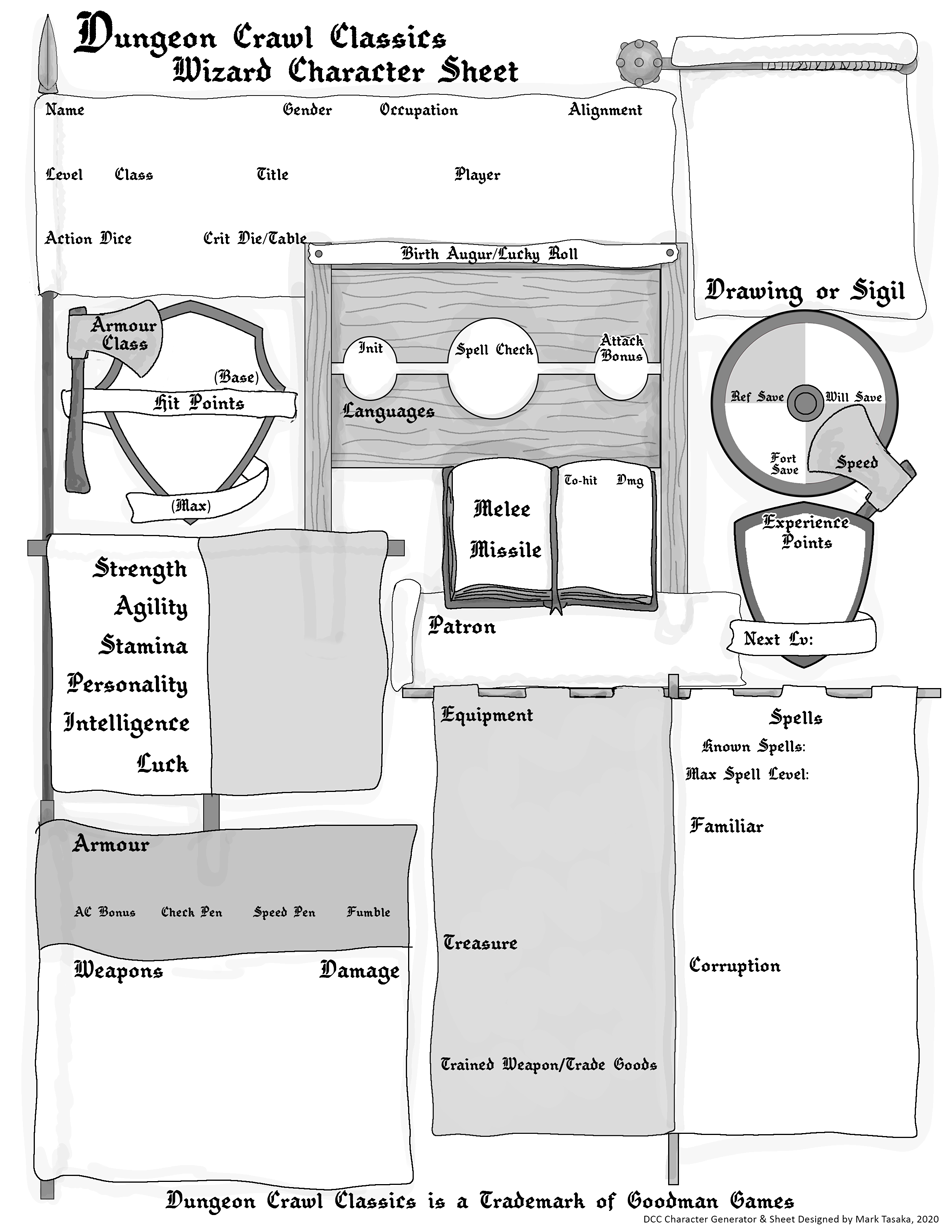
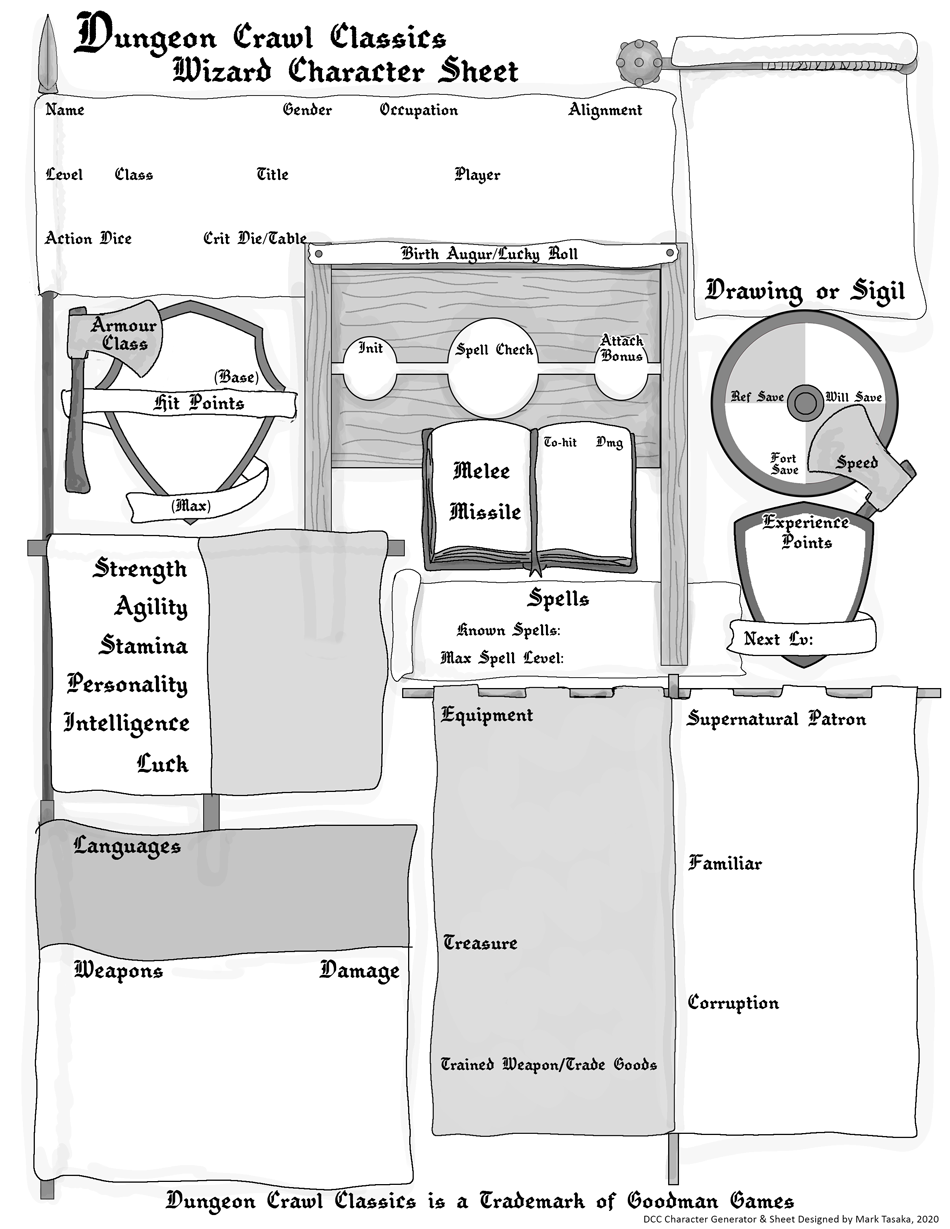
Update 1.01

diff --git a/character3/css/wizard.css b/character3/css/wizard.css
@@ -443,25 +443,25 @@ body{
 
 #languages{
     position:absolute;
-    top: 430px;
-    left: 360px;
-    font-size: 0.8em;
+    top: 870px;
+    left: 85px;
+    font-size: 0.9em;
     width: 300px;
 }
 
 
 #melee{
     position:absolute;
-    top: 503px;
-    left: 573px;
+    top: 467px;
+    left: 555px;
 	font-size: 1em;
 }
 
 
 #range{
     position:absolute;
-    top: 546px;
-    left: 573px;
+    top: 510px;
+    left: 555px;
 	font-size: 1em;
 }
 
@@ -469,16 +469,16 @@ body{
 
 #meleeDamage{
     position:absolute;
-    top: 503px;
-    left: 620px;
+    top: 467px;
+    left: 602px;
 	font-size: 1em;
 }
 
 
 #rangeDamage{
     position:absolute;
-    top: 546px;
-    left: 620px;
+    top: 510px;
+    left: 602px;
 	font-size: 1em;
 }
 
@@ -510,15 +510,15 @@ body{
 
 #maxSpellLevel{
     position:absolute;
-    top: 741px;
-    left: 830px;
+    top: 624px;
+    left: 590px;
     font-size: 1em;
 }
 
 
 #knownSpells{
     position:absolute;
-    top: 770px;
-    left: 830px;
+    top: 654px;
+    left: 590px;
     font-size: 1em;
 }

diff --git a/character3/dccWizard.php b/character3/dccWizard.php
@@ -41,11 +41,18 @@
     include 'php/clothing.php';
     include 'php/abilityScoreGen.php';
     include 'php/randomName.php';
+    include 'php/xp.php';
     
 
         if(isset($_POST["theCharacterName"]))
         {
             $characterName = $_POST["theCharacterName"];
+    
+        }
+
+        if(isset($_POST["thePlayerName"]))
+        {
+            $playerName = $_POST["thePlayerName"];
     
         }
         
@@ -70,6 +77,9 @@
             $level = $_POST["theLevel"];
         
         } 
+        
+
+        $xpNextLevel = getXPNextLevel ($level);
         
         if(isset($_POST["theAbilityScore"]))
         {
@@ -129,16 +139,26 @@
         $weaponArray = array();
         $weaponNames = array();
         $weaponDamage = array();
-    
-    
-        if(isset($_POST["theWeapons"]))
+
+        //For Random Select weapon
+        if(isset($_POST['thecheckBoxRandomWeaponsV3']) && $_POST['thecheckBoxRandomWeaponsV3'] == 1) 
         {
+            $weaponArray = getRandomWeapons();
+        
+       }
+        else
+       {
+        if(isset($_POST["theWeapons"]))
+       {
             foreach($_POST["theWeapons"] as $weapon)
             {
                 array_push($weaponArray, $weapon);
-            }
+           }
         }
-    
+
+    }
+        
+
     foreach($weaponArray as $select)
     {
         array_push($weaponNames, getWeapon($select)[0]);
@@ -151,15 +171,60 @@
         
         $gearArray = array();
         $gearNames = array();
+
+        /*
+        $a00 = array("Dagger", "1d4/1d10");
+        $a01 = array("Longbow", "1d6");
+        $a02 = array("Longsword", "1d8");
+        $a03 = array("Shortbow", "1d6");
+        $a04 = array("Short sword", "1d6");
+        $a05 = array("Staff", "1d4");*/
     
-    
-        if(isset($_POST["theGear"]))
+            //For Random Select gear
+
+    //For Random Select gear
+    if(isset($_POST['theCheckBoxRandomGear']) && $_POST['theCheckBoxRandomGear'] == 1) 
+    {
+        $gearArray = getRandomGear();
+
+        $weaponCount = count($weaponArray);
+
+        $hasLongbow = false;
+        $hasShortbow = false;
+
+        for($i = 0; $i < $weaponCount; ++$i)
         {
-            foreach($_POST["theGear"] as $weapon)
+            if($weaponArray[$i] == "1" && $hasShortbow == false)
             {
-                array_push($gearArray, $weapon);
+                array_push($gearArray, 24);
+                array_push($gearArray, 25);
+                
+                $hasLongbow = true;
             }
+
+            if($weaponArray[$i] == "3" && $hasLongbow == false)
+            {
+                array_push($gearArray, 24);
+
+                $hasShortbow = true;
+            }
+
         }
+
+    }
+    else
+    {
+        //For Manually select gear
+        if(isset($_POST["theGear"]))
+            {
+                foreach($_POST["theGear"] as $gear)
+                {
+                    array_push($gearArray, $gear);
+                }
+            }
+
+    }
+
     
         foreach($gearArray as $select)
         {
@@ -227,6 +292,13 @@
                 echo $level;
            ?>
         </span>
+        
+       <span id="xpNextLevel">
+           <?php
+                echo $xpNextLevel;
+           ?>
+        </span>
+
        
 
        
@@ -235,6 +307,15 @@
                 echo $characterName;
            ?>
         </span>
+
+        
+        
+       <span id="playerName">
+           <?php
+                echo $playerName;
+           ?>
+        </span>
+       
        
               
          <span id="alignment">

diff --git a/character3/php/xp.php b/character3/php/xp.php
@@ -1,0 +1,58 @@
+<?php
+
+function getXPNextLevel ($level)
+{
+    $xpNext = "";
+
+
+    switch ($level) 
+    {
+        case "1":
+            $xpNext = "50";
+          break;
+
+        case "2":
+            $xpNext = "110";
+        break;
+        
+        case "3":
+            $xpNext = "190";
+        break;
+        
+        case "4":
+            $xpNext = "290";
+        break;
+        
+        case "5":
+            $xpNext = "410";
+        break;
+        
+        case "6":
+            $xpNext = "550";
+        break;        
+
+        case "7":
+            $xpNext = "710";
+        break;
+                
+        case "8":
+            $xpNext = "890";
+        break;
+                
+        case "9":
+            $xpNext = "1090";
+        break;
+                
+        case "10":
+            $xpNext = "---";
+        break;
+
+        default:
+          $xpNext = " =P ";
+      }
+
+      return $xpNext;
+}
+
+
+?>

diff --git a/character3/php/gear.php b/character3/php/gear.php
@@ -1,5 +1,6 @@
 <?php
 
+/*Wizard */
 
 function getGear($input)
 {
@@ -37,6 +38,28 @@ function getGear($input)
         $arr= array($a00, $a01, $a02, $a03, $a04, $a05, $a06, $a07, $a08, $a09, $a10, $a11, $a12, $a13, $a14, $a15, $a16, $a17, $a18, $a19, $a20, $a21, $a22, $a23, $a24, $a25, $a26, $a27);
         
         return $arr[$input];
+}
+
+
+
+function getRandomGear()
+{
+        $gearArray = array(0, 7, 17, 22, 23);
+
+        $numberOfGear = rand(5, 15);
+
+        $addToArray = array(1, 2, 3, 4, 5, 6, 8, 9, 10, 11, 12, 13, 14, 15, 16, 18, 19, 20, 21);
+
+        shuffle($addToArray);
+
+        for($j = 0; $j <= $numberOfGear; ++$j)
+        {
+                $gear = $addToArray[$j];
+                array_push($gearArray, $gear);
+        }
+
+        return $gearArray;
+
 }
 
 

diff --git a/character3/php/weapons.php b/character3/php/weapons.php
@@ -1,5 +1,7 @@
 <?php
 
+/*Wizard*/
+
 
     function getWeapon($input)
     {
@@ -16,6 +18,30 @@
         return $array1[$input];
         
     }
+
+    
+    
+function getRandomWeapons()
+{
+   
+    $weaponsArray = array(0, 1, 2, 3, 4, 5);
+
+    //shuffle $weaponsArray
+    shuffle($weaponsArray); 
+
+    $numberOfWeapons = rand (3, 5);
+
+    $weaponsHas = array();
+
+    for($j = 0; $j < $numberOfWeapons; ++$j)
+    {
+        $weapon = $weaponsArray[$j];
+        array_push($weaponsHas, $weapon);
+    }
+
+    return $weaponsHas;
+}
+
 
 
 
